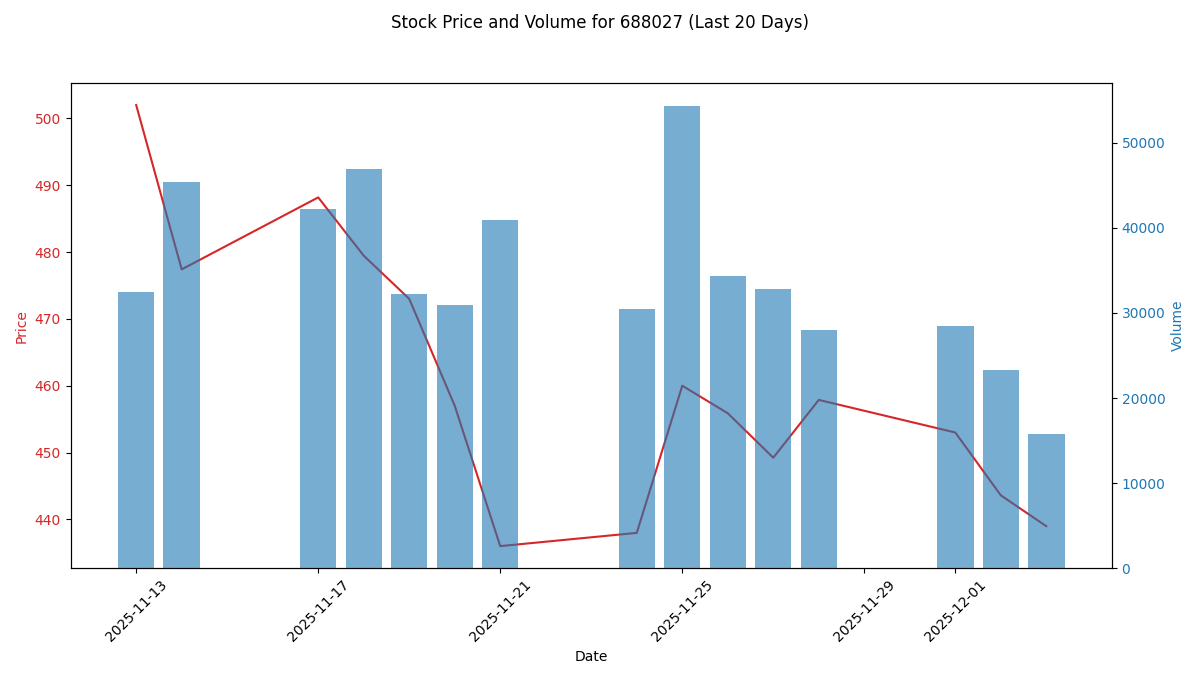
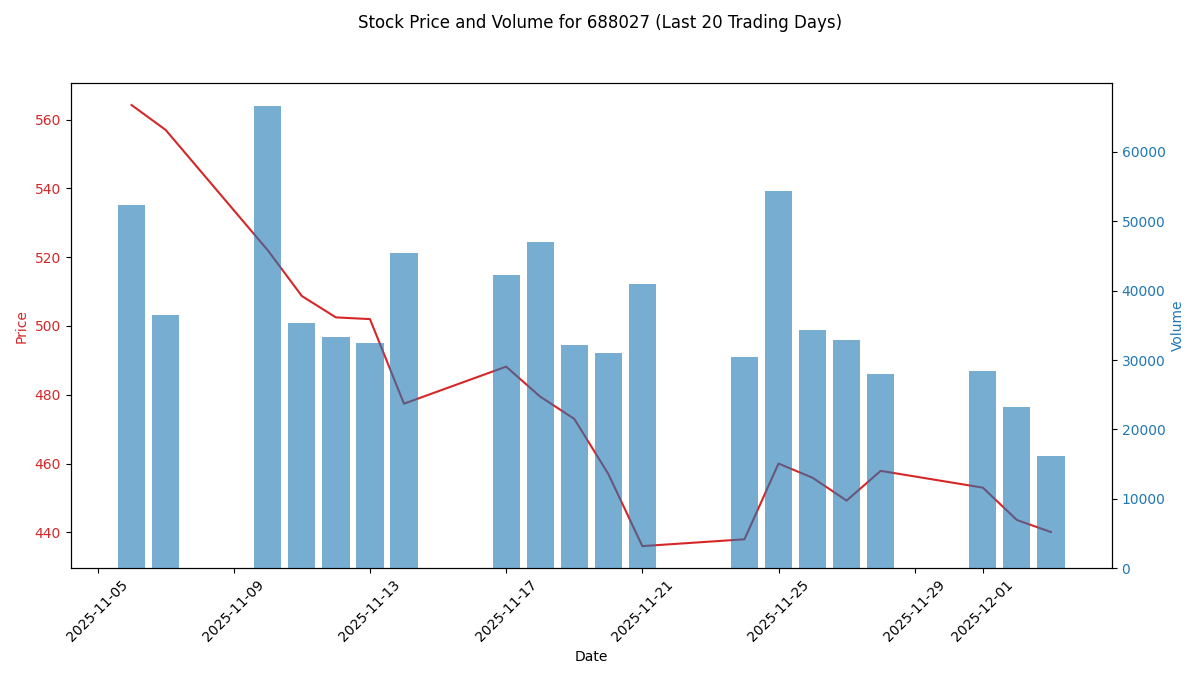
docs: Update stock data and chart for 688027

diff --git a/002/b1203.md b/002/b1203.md
@@ -3,6 +3,11 @@
 ## Last 20 Days (Daily)
 | 日期         |     开盘 |     收盘 |     最高 |     最低 |   成交量 |
 |:-----------|-------:|-------:|-------:|-------:|------:|
+| 2025-11-06 | 555    | 564.23 | 569.8  | 553.06 | 52299 |
+| 2025-11-07 | 557    | 557    | 563.63 | 545.8  | 36469 |
+| 2025-11-10 | 548.57 | 522    | 556.75 | 509.07 | 66599 |
+| 2025-11-11 | 520.13 | 508.71 | 527.68 | 506.23 | 35329 |
+| 2025-11-12 | 504    | 502.5  | 511.01 | 497.1  | 33323 |
 | 2025-11-13 | 499    | 502    | 505.96 | 498.02 | 32456 |
 | 2025-11-14 | 505    | 477.41 | 506    | 476.8  | 45388 |
 | 2025-11-17 | 476.72 | 488.18 | 490.38 | 472.5  | 42201 |
@@ -17,7 +22,7 @@
 | 2025-11-28 | 449    | 457.88 | 461    | 447.59 | 28023 |
 | 2025-12-01 | 453.88 | 453    | 457.88 | 446    | 28463 |
 | 2025-12-02 | 451    | 443.6  | 451    | 441.2  | 23260 |
-| 2025-12-03 | 444.55 | 438.98 | 449.88 | 435    | 15721 |
+| 2025-12-03 | 444.55 | 440.1  | 449.88 | 435    | 16171 |
 
 ## Today's Data (5-Minute Intervals)
 | 日期                  |     开盘 |     收盘 |     最高 |     最低 |   成交量 |
@@ -47,4 +52,6 @@
 | 2025-12-03 11:25:00 | 439.8  | 438.97 | 440.64 | 438.97 |   387 |
 | 2025-12-03 11:30:00 | 438.97 | 438.7  | 439.69 | 438.5  |   104 |
 | 2025-12-03 13:05:00 | 438.68 | 438.07 | 439.66 | 437.55 |   158 |
-| 2025-12-03 13:10:00 | 438.65 | 438.98 | 439    | 438.65 |    84 |
+| 2025-12-03 13:10:00 | 438.65 | 439.9  | 439.99 | 438.18 |   205 |
+| 2025-12-03 13:15:00 | 439.99 | 439.01 | 441.31 | 439.01 |   267 |
+| 2025-12-03 13:20:00 | 439.01 | 440.1  | 440.1  | 439    |    62 |
